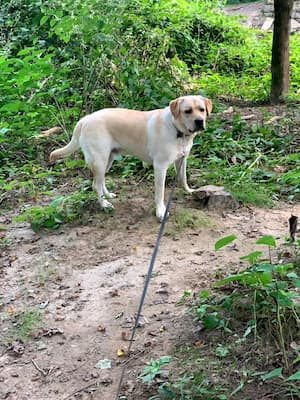
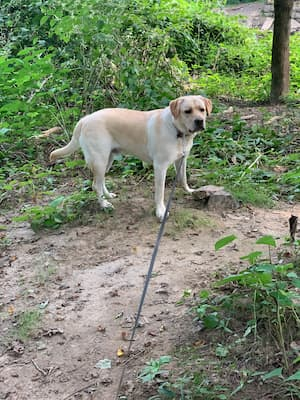
Images now in webp format

diff --git a/index.html b/index.html
@@ -44,7 +44,7 @@
     <main>
         <!--       TODO: replace with main image -->
         <article class="greeting flex-container align-center justify-center">
-                <img src="photos/cooper.jpg" alt='dog sniffing grass' class="main-image | darken pos-absolute">
+                <img src="photos/cooper.webp" alt='dog sniffing grass' class="main-image | darken pos-absolute">
                 <section class="greeting__text-container | pos-relative flex-container">
                     <p class="large-text color-white text-shadow">COMING SOON</p>
                     <p class="color-white text-shadow"><i>Site under construction</i></p>
@@ -99,23 +99,20 @@
             <article class="photo-gallery | flex-container" aria-label="photo gallery">
                 <h2 class="">Our Clients!</h2>
                 <section class="pictures | flex-container-row flex-wrap justify-center">
-                    <a href="photos/pic1.jpg" data-lity>
+                    <a href="photos/pic1.webp" data-lity>
                         <img src="thumbnails/pic1.jpg" class="pictures__img br-1" alt="dog">
                     </a>
-                    <a href="photos/pic2.jpg" data-lity>
-                        <img src="thumbnails/pic2.jpg" class="pictures__img br-1" alt="dog">
+                    <a href="photos/pic2.webp" data-lity>
+                        <img src="thumbnails/pic2.webp" class="pictures__img br-1" alt="dog">
                     </a>
-                    <a href="photos/pic3.jpg" data-lity>
-                        <img src="thumbnails/pic3.jpg" class="pictures__img br-1" alt="cat">
+                    <a href="photos/pic3.webp" data-lity>
+                        <img src="thumbnails/pic3.webp" class="pictures__img br-1" alt="cat">
                     </a>
-                    <a href="photos/pic5.jpg" data-lity>
-                        <img src="thumbnails/pic5.jpg" class="pictures__img br-1" alt="dog">
+                    <a href="photos/pic4.webp" data-lity>
+                        <img src="thumbnails/pic4.webp" class="pictures__img br-1" alt="dog">
                     </a>
-                    <a href="photos/pic8.jpg" data-lity>
-                        <img src="thumbnails/pic8.jpg" class="pictures__img br-1" alt="dog">
-                    </a>
-                    <a href="photos/pic9.jpg" data-lity>
-                        <img src="thumbnails/pic9.jpg" class="pictures__img br-1" alt="dog">
+                    <a href="photos/pic5.webp" data-lity>
+                        <img src="thumbnails/pic5.webp" class="pictures__img br-1" alt="dog">
                     </a>
                 </section>
                 <div class="flex-container align-center"><a class="button | hover-underline-animation" data-type="medium">View more</a></div>
